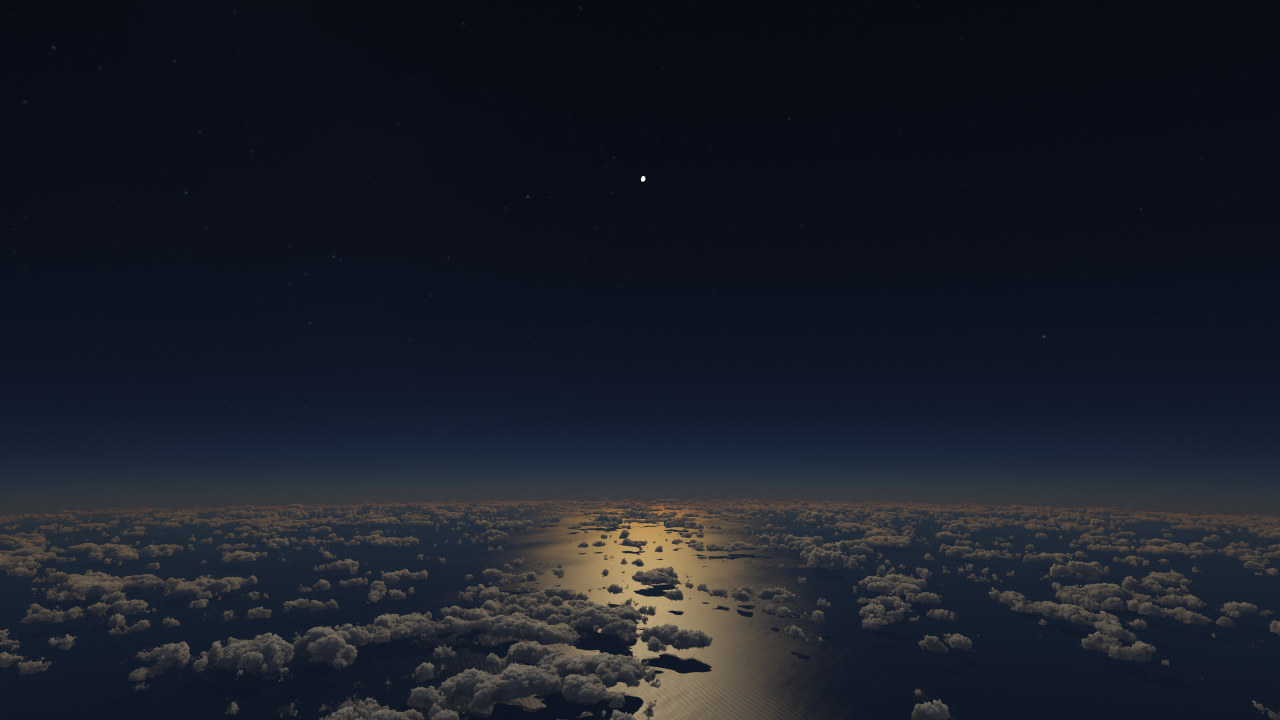
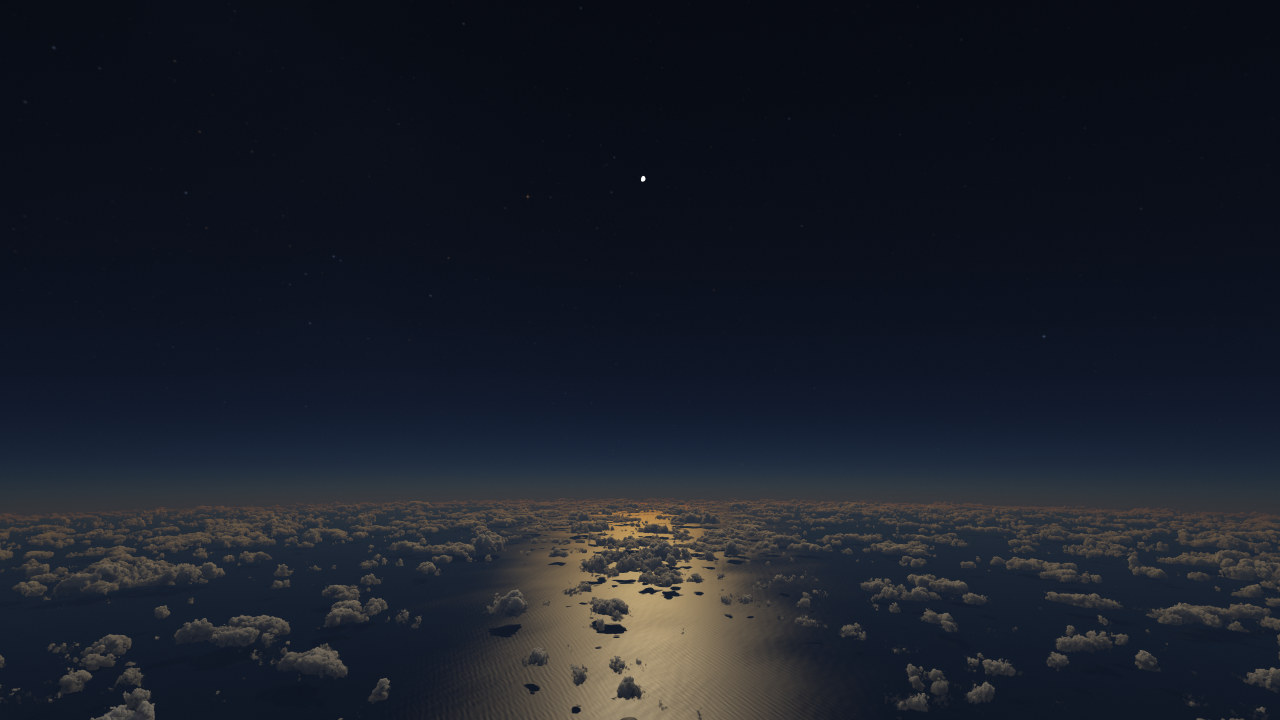
Docs: new pictures, after the change of hash
The clouds sit elsewhere now, so the six pictures are rendered again
(1280 x 720, JPEG quality 88, 4:4:4). The late afternoon is taken at
200,150, where no cirrus crosses the sun; the cloud tops at 150,90. The
links in both READMEs follow.

Claude-Session: https://claude.ai/code/session_0164gFYhFQTZWxi11WF846xx

diff --git a/README.md b/README.md
@@ -11,8 +11,8 @@ and the stars, from the way light scatters.
 [![Clouds, sea and thin cloud, seen from 11 km](docs/images/cruise.jpg)](https://sf624.github.io/sky/?date=319&at=150,90)
 
 <p>
-<a href="https://sf624.github.io/sky/?date=319&time=16.75&yaw=60&pitch=-6&at=60,20"><img src="docs/images/sunset.jpg" width="49%" alt="Late afternoon: a low sun and its glare on the sea"></a>
-<a href="https://sf624.github.io/sky/?date=319&time=10&alt=2.5&cloud=0.7&pitch=-3"><img src="docs/images/cloud-tops.jpg" width="49%" alt="At 2,500 m: the tops of the clouds just below"></a>
+<a href="https://sf624.github.io/sky/?date=319&time=16.75&yaw=60&pitch=-6&at=200,150"><img src="docs/images/sunset.jpg" width="49%" alt="Late afternoon: a low sun and its glare on the sea"></a>
+<a href="https://sf624.github.io/sky/?date=319&time=10&alt=2.5&cloud=0.7&pitch=-3&at=150,90"><img src="docs/images/cloud-tops.jpg" width="49%" alt="At 2,500 m: the tops of the clouds just below"></a>
 <a href="https://sf624.github.io/sky/?date=319&time=13&yaw=17&pitch=-25&cloud=0.25"><img src="docs/images/sea.jpg" width="49%" alt="The sea towards the sun: glitter on the waves, and the shadows of clouds"></a>
 <a href="https://sf624.github.io/sky/?date=200&time=22&moon=10&yaw=34&pitch=10&cloud=0.3&cirrus=0"><img src="docs/images/night.jpg" width="49%" alt="Night: the moon, stars, and moonlight on the sea"></a>
 </p>

diff --git a/README.ja.md b/README.ja.md
@@ -10,8 +10,8 @@ English: [README.md](README.md)
 [![巡航高度 11 km から見た、雲と海と薄雲](docs/images/cruise.jpg)](https://sf624.github.io/sky/?date=319&at=150,90)
 
 <p>
-<a href="https://sf624.github.io/sky/?date=319&time=16.75&yaw=60&pitch=-6&at=60,20"><img src="docs/images/sunset.jpg" width="49%" alt="夕方。低い太陽と、海の照り返し"></a>
-<a href="https://sf624.github.io/sky/?date=319&time=10&alt=2.5&cloud=0.7&pitch=-3"><img src="docs/images/cloud-tops.jpg" width="49%" alt="高度 2500 m。すぐ下の雲の頂"></a>
+<a href="https://sf624.github.io/sky/?date=319&time=16.75&yaw=60&pitch=-6&at=200,150"><img src="docs/images/sunset.jpg" width="49%" alt="夕方。低い太陽と、海の照り返し"></a>
+<a href="https://sf624.github.io/sky/?date=319&time=10&alt=2.5&cloud=0.7&pitch=-3&at=150,90"><img src="docs/images/cloud-tops.jpg" width="49%" alt="高度 2500 m。すぐ下の雲の頂"></a>
 <a href="https://sf624.github.io/sky/?date=319&time=13&yaw=17&pitch=-25&cloud=0.25"><img src="docs/images/sea.jpg" width="49%" alt="太陽の方の海。波のきらめきと雲の影"></a>
 <a href="https://sf624.github.io/sky/?date=200&time=22&moon=10&yaw=34&pitch=10&cloud=0.3&cirrus=0"><img src="docs/images/night.jpg" width="49%" alt="夜。月と星、月明かりの海"></a>
 </p>
